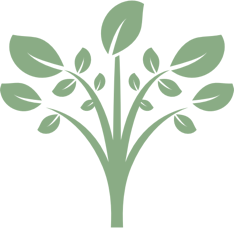
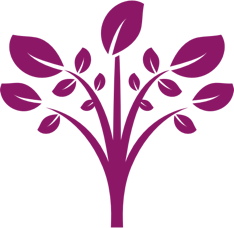
initial design modifications
changed to purple scheme, removed buttons in favor of anchors, etc

Changed region(s): [[0.0299, 0.0, 1.0, 1.0], [0.0, 0.3377, 0.1795, 0.4912]]

diff --git a/index.html b/index.html
@@ -42,19 +42,19 @@
     <nav class="navbar navbar-clear">
         <div class="">
             <div class="row">
-                <a href="#"><img id="logo" class="logo" src="images/grapefruit.png"></img></a>
+                <a href="#landing-area"><img id="logo" class="logo" src="images/grapefruit.png"></img></a>
                 <ul class="navbar-list u-pull-right">
                     <li class="navbar-item">
-                    <a class="navbar-link" href="#features">Features</a>
+                      <a class="navbar-link" href="#why-grapefruit">Why Grapefruit?</a>
                     </li>
                     <li class="navbar-item">
-                    <a class="navbar-link" href="#case-studies">Case Studies</a>
+                      <a class="navbar-link" href="#features">Features</a>
                     </li>
                     <li class="navbar-item">
-                    <a class="navbar-link" href="#blog">Blog</a>
+                      <a class="navbar-link" href="#grapefruit-orchard">Orchard</a>
                     </li>
-                    <li class="navbar-item ">
-                    <a class="navbar-link" href="#Orchard">Orchard</a>
+                    <li class="navbar-item">
+                      <a class="navbar-link" href="http://blog.grapefruit.link" target="_blank">Blog &rarr;</a>
                     </li>
                     <li class="navbar-item menu-button">
                     <a class="" href="#">
@@ -68,6 +68,7 @@
         <div id="menu-mobile" class="">
             <div class="row">
                 <a class="u-pull-left" href="#">
+                    <a href="" name="top"></a>
                     <img id="logo" class="logo" src="images/grapefruit.png"></img>
                 </a>
                 <div class="menu-button u-pull-right">
@@ -105,16 +106,13 @@
                     <div class="two columns"></div>
                 </div>
                 <!-- buttons -->
-                <div class="buttons">
-                    <button class="button">
-                        <a href="#why-grapefruit">Learn More</a>
-                    </button>
-                    <button class="button">Deploy Yourself</button>
-                    <button class="button light-red">We Can Help</button>
+                <div class="main-buttons">
+                        <a href="#why-grapefruit">Why Grapefruit? &cudarrr;</a>
+                        <a href="http://cloud.grapefruit.link" class="orchard">Orchard Login &rsaquo;</a>
                 </div>
                 <!-- two sentences explaining freedom -->
                 <div id="open-source-notice">
-                    <div class="text-small">Grapefruit is and will always be 100% free and open source.</div>
+                    <div class="text-small">Grapefruit is and will always be <strong>100% free and open source</strong>.</div>
                     <div class="text-small">This means that you can use, modify, or host Grapefruit anywhere in the entire universe.</div>
                 </div>
             </div>
@@ -184,8 +182,8 @@
                 </div>
             </div>
         </div>
-        <div id="take-a-tour" class="section">
-            <div class="text-header">Take a Tour</div>
+        <div id="features" class="section">
+            <div class="text-header">Features</div>
             <div class="container divider"></div>
             <div class="container">
                 <div class="row">
@@ -230,7 +228,7 @@
                 <div class="text-large">Rather have us take care of everything?</div>
                 <div class="text-small">The Grapefruit team offers a cloud hosted option.</div>
                 <div class="text-small">We take care of all the techincal details as well as provide additional services.</div>
-                <div class="text-small spaced">We call it Grapefruit <span class="o-green">Orchard</span>.</div>
+                <div class="text-small spaced">We call it Grapefruit <span class="o-purple">Orchard</span>.</div>
             </div>
             <div class="container">
                 <div class="row">
@@ -275,16 +273,16 @@
             <div class="container orchard-talk">
                 <div class="text-large">Talk to us about Orchard.</div>
                 <div class="text-small light">(Your students will love you for it.)</div>
-                <div class="buttons">
-                    <button class="button">Talk with Us</button>
-                    <button class="button orchard">Get Orchard</button>
+                <div class="main-buttons">
+                    <a href="#">Talk with Us</a>
+                    <a href="#" class="orchard">Get Orchard &Rang;</a>
                 </div>
             </div>
         </div>
         <div id="footer" class="section">
             <div class="container">
                     <div class="copyright">
-                        <span>© 2015 Grapefruit Foundation</span>
+                        <span>&copy; The 2015 Grapefruit Foundation</span>
                         <span>Created with ♥ by the Grapefruit Team.</span>
                     </div>
                     <div class="links">

diff --git a/css/main.scss b/css/main.scss
@@ -1,7 +1,11 @@
+---
+---
+
 $gf-red:  #CA4443;
 $dark-red: #B03B3B;
 $light-red: #FFDAD9;
 $orchard-green: #8AAC85;
+$orchard-purple: #8d1767;
 $dark-green: #769271;
 $light-green: #E4FDCB;
 
@@ -26,7 +30,6 @@ a, .button {
 a:hover, .button:hover {
  color: #222;
 }
-
 
 /* Navbar */
 .navbar {
@@ -133,6 +136,40 @@ a:hover, .button:hover {
     color: $dark-red;
 }
 
+/*
+  main buttons for call to action
+*/
+
+div.main-buttons {
+    display: block;
+    clear: both;
+    text-align: center;
+    a {
+        display: inline-block;
+        border-radius: .5em;
+        padding: .2em .7em;
+        font-size: 1.7em;
+        line-height: 1.7em;
+        background-color: $gf-red;
+        color: #fff;
+    }
+    a:hover {
+        background-color: darken($gf-red, 10%);
+    }
+    a.orchard{
+      background-color: $orchard-purple;
+      font-weight: 600;
+      color: #fff;
+    }
+    a.orchard:hover{
+      background-color: lighten($orchard-purple, 10%);
+      color: #fff;
+    }
+    .light-red {
+        background: $light-red;
+    }
+}
+
 #landing-area {
     padding-top: 12rem;
 
@@ -147,28 +184,6 @@ a:hover, .button:hover {
         text-align: center;
     }
 
-    .buttons {
-        display: block;
-        clear: both;
-        text-align: center;
-        .button {
-            // display: inline-block;
-            /* Rectangle 7: */
-            border: 5px solid $gf-red;
-            border-radius: 21px;
-            font-size: 12px;
-            line-height: 19px;
-            height: 6rem;
-
-        }
-        button:hover {
-            border-color: $dark-red;
-            box-shadow: 0 2px 4px rgba(0,0,0,0.2);
-        }
-        .light-red {
-            background: $light-red;
-        }
-    }
     #open-source-notice {
         padding: 7rem 0rem;
         .text-small {
@@ -224,11 +239,10 @@ a:hover, .button:hover {
         }
         button:hover {
             border-color: $dark-red;
-            box-shadow: 0 2px 4px rgba(0,0,0,0.2);
         }
     }
 }
-#take-a-tour {
+#features {
     padding: 7rem 0rem;
     .text-header {
         font-size: 6rem;
@@ -293,7 +307,7 @@ a:hover, .button:hover {
     }
     .text-o {
         font-family: MinionPro-Regular;
-        color: $orchard-green;
+        color: $orchard-purple;
         letter-spacing: 2.59px;
         line-height: 86px;
     }
@@ -331,6 +345,14 @@ a:hover, .button:hover {
     .o-green {
         color: $orchard-green;
     }
+    .o-purple{
+      color: $orchard-purple;
+      font-weight: bold;
+    }
+
+    div.main-buttons{
+      margin-top: 1em;
+    }
 
     .orchard-explaination {
         padding-top: 5rem;
@@ -342,33 +364,6 @@ a:hover, .button:hover {
 
         .text-large {
             padding-bottom: 0;
-        }
-    }
-    .buttons {
-        display: block;
-        clear: both;
-        text-align: center;
-        padding-top: 3rem;
-        .button {
-            // display: inline-block;
-            /* Rectangle 7: */
-            border: 5px solid $gf-red;
-            border-radius: 21px;
-            font-size: 12px;
-            line-height: 19px;
-            height: 6rem;
-            margin: 5px;
-        }
-        button:hover {
-            border-color: $dark-red;
-            box-shadow: 0 2px 4px rgba(0,0,0,0.2);
-        }
-        .orchard {
-            border-color: $orchard-green;
-            background: $light-green;
-        }
-        .orchard:hover {
-            border-color: $dark-green;
         }
     }
 
@@ -549,17 +544,17 @@ a:hover, .button:hover {
         .vertical-divider {
 
             font-weight: 100;
-            color: #666666;
+            color: #ccc;
         }
         .text-o {
             font-family: MinionPro-Regular;
-            color: $orchard-green;
+            color: $orchard-purple;
             letter-spacing: 2.59px;
             line-height: 86px;
         }
         .divider {
             width: 50%;
-            border-bottom: 1px solid $orchard-green;
+            border-bottom: 1px solid $orchard-purple;
             padding: 5rem 0rem 5rem 0rem;
             margin-bottom: 5rem;
         }
@@ -616,5 +611,3 @@ a:hover, .button:hover {
         }
     }
 }
-
-
